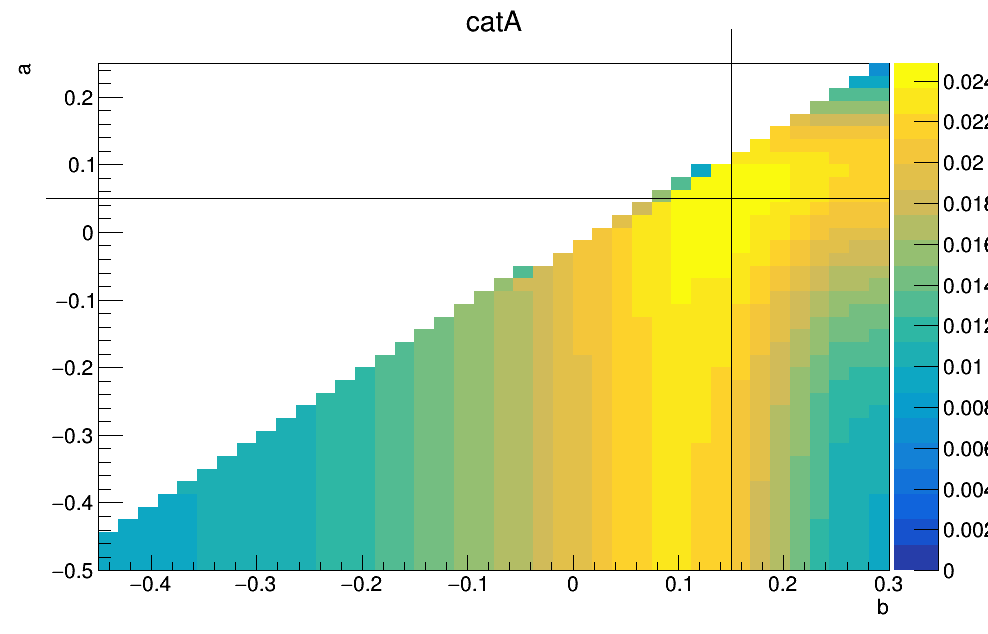
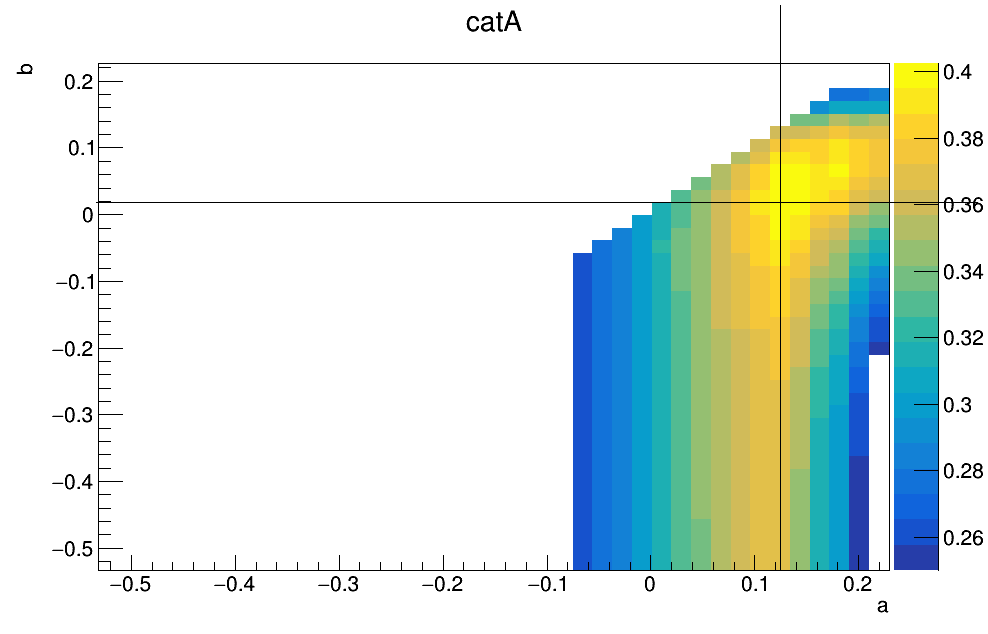
Update on macro for BDT cut definition: - high granularity BDT score histogram (see definition here: https://github.com/root-project/root/blob/f1e98c0918bd9b06527358b48b40ccdd5c6eda9a/tmva/tmva/src/MethodBase.cxx#L1188) - more robust definition of ranges - the sensitivity is not computed in the tail
Note: not final normalization factor for signal
Note: the user can increase the number of (a,b) points for combined sensitivity calculation changing variable N

	modified:   BDT_optimal_cut.C

diff --git a/BDT_optimal_cut/BDT_optimal_cut.C b/BDT_optimal_cut/BDT_optimal_cut.C
@@ -1,5 +1,6 @@
 #include "TH1F.h"
 #include <cmath>
+#include <fstream>
 
 double TH1_integral (TH1F *h, float xmin, float xmax){
     TAxis *axis = h->GetXaxis();
@@ -13,13 +14,17 @@ double TH1_integral (TH1F *h, float xmin, float xmax){
 }
 void BDT_optimal_cut() 
 {
+
+    ofstream logfile;
+    logfile.open ("logBDT.txt");
+
     //pull path of root files generated by TMVA
     TString file_name[3] = {"TMVA_file_A.root",
                             "TMVA_file_B.root",
                             "TMVA_file_C.root"};
-    TString cat_name[3] = {"catA",
-                           "catB",
-                           "catC"};
+    TString cat_name[3] = {"A",
+                           "B",
+                           "C"};
     float a,b;
     double N_s_1, N_b_1;
     double N_s_2, N_b_2;
@@ -32,8 +37,11 @@ void BDT_optimal_cut()
 
 	    TH1F *h_test_signal;
 	    TH1F *h_test_bkg;
-	    h_test_signal = (TH1F*)f->Get("dataset/Method_BDT/BDT/MVA_BDT_S");
-	    h_test_bkg = (TH1F*)f->Get("dataset/Method_BDT/BDT/MVA_BDT_B");
+            //high granularity BDT scores
+	    h_test_signal = (TH1F*)f->Get("dataset/Method_BDT/BDT/MVA_BDT_S_high");
+	    h_test_bkg = (TH1F*)f->Get("dataset/Method_BDT/BDT/MVA_BDT_B_high");
+	    //h_test_signal = (TH1F*)f->Get("dataset/Method_BDT/BDT/MVA_BDT_S");
+	    //h_test_bkg = (TH1F*)f->Get("dataset/Method_BDT/BDT/MVA_BDT_B");
 
 	    //Signal is normalized to "sig_norm" factor
 	    h_test_signal->Scale(sig_norm);
@@ -41,16 +49,25 @@ void BDT_optimal_cut()
 	    h_test_signal->GetXaxis()->SetRangeUser(-0.5,0.5);
 	    h_test_signal->SetLineColor(kRed);
 
-            //Loop on both cuts in [-0.5;0.5]
+            logfile<<cat_name[k]<<endl;
+            double X_min = std::min(h_test_signal->GetXaxis()->GetXmin(), h_test_signal->GetXaxis()->GetXmin());
+            double X_max = std::max(h_test_signal->GetXaxis()->GetXmax(), h_test_signal->GetXaxis()->GetXmax());
+            //Loop on both cuts in [X_min;X_max]
 	    Int_t dim = 0;
-	    for(int i=0; i<21; i++){
-		a = -0.5 + i * 0.05;
-		for(int j=0; j<21; j++){
-		    b = -0.5 + j * 0.05;
+            //Increase N to increase (a,b) scan granularity!
+            Int_t N = 350; double step = (X_max - X_min)/N;
+	    for(int i=0; i<N; i++){
+		a = X_min + i * step;
+		for(int j=0; j<N; j++){
+		    b = X_min + j * step;
                     if(a<b) continue;
-                    //computing areas in range [a;0.5] and [b;a]
-		    N_s_1 = TH1_integral(h_test_signal,a,0.5);
-		    N_b_1 = TH1_integral(h_test_bkg,a,0.5);
+                    //computing areas in range [a;X_max]
+		    N_s_1 = TH1_integral(h_test_signal,a,X_max);
+		    N_b_1 = TH1_integral(h_test_bkg,a,X_max);
+                    //skip iteration if integral in the tails is < 0.05% of total (sensitive to fluctuations!)
+                    if(N_s_1 < TH1_integral(h_test_signal,X_min,X_max)*0.0005) continue;
+                    if(N_b_1 < TH1_integral(h_test_bkg,X_min,X_max)*0.0005) continue;
+                    //computing areas in range [b;a]
 		    N_s_2 = TH1_integral(h_test_signal,b,a);
                     N_b_2 = TH1_integral(h_test_bkg,b,a);
 	 	    if ( (N_b_1)>0 && (N_b_2)>0 ) {
@@ -64,32 +81,38 @@ void BDT_optimal_cut()
 		        b_list.push_back(b);
 		        S_list.push_back(S);
 	   	        dim++;
+                        logfile<<"a "<<a<<" b "<<b<<" S "<<S<<endl;
 		    }
 		}
 	    }
-	    
 	    TCanvas *c3 = new TCanvas("c3","c3",150,10,990,660);
 	    TGraph2D *g2d = new TGraph2D(dim, &a_list[0], &b_list[0], &S_list[0]);
-	    g2d->SetTitle(cat_name[k]+";b;a");
+	    g2d->SetTitle(cat_name[k]+";a;b");
 	    g2d->Draw("colz");    
+            g2d->GetHistogram()->SetMinimum(0.25);
+            c3->Update();
 
             //Taking absolute maximum of the combined significance
 	    double S_max = *max_element(S_list.begin(), S_list.end());
 	    int S_maxIndex = std::max_element(S_list.begin(),S_list.end()) - S_list.begin();
-	    cout<<"b corresponding to maximum "<<b_list.at(S_maxIndex)<<endl;
-	    cout<<"a corresponding to maximum "<<a_list.at(S_maxIndex)<<endl;
-	    cout<<"S value: "<<S_max<<endl;
 	    float a_max = a_list.at(S_maxIndex);
 	    float b_max = b_list.at(S_maxIndex);
+	    cout<<"Category "<<cat_name[k]<<endl;
+	    cout<<"b cut: "<<b_max<<" a cut: "<<a_max<<endl;
+	    cout<<"S value: "<<S_max<<endl;
 
             //Computing cut efficiency on signal
-            Double_t N_S_12 = TH1_integral(h_test_signal,b_max,0.5);
-            Double_t N_S_tot = TH1_integral(h_test_signal,-0.5,0.5);
-            cout<<"Signal events selected by BDT "<<N_S_12<<" over "<<N_S_tot<<" ratio: "<<N_S_12/N_S_tot<<endl;
+            Double_t N_S_12 = TH1_integral(h_test_signal,b_max,X_max);
+            Double_t N_S_tot = TH1_integral(h_test_signal,X_min,X_max);
+            cout<<"Signal events kept by BDT "<<N_S_12<<" over "<<N_S_tot<<" ratio: "<<N_S_12/N_S_tot<<endl;
+            //Computing cut efficiency on backgroup
+            Double_t N_B_12 = TH1_integral(h_test_bkg,b_max,X_max);
+            Double_t N_B_tot = TH1_integral(h_test_bkg,X_min,X_max);
+            cout<<"Background events kept by BDT "<<N_B_12<<" over "<<N_B_tot<<" ratio: "<<N_B_12/N_B_tot<<endl;
 	    
             TLine l;
-            l.DrawLine(a_max,-0.5,a_max,0.3);
-            l.DrawLine(-0.5,b_max,0.3,b_max);
+            l.DrawLine(a_max,X_min,a_max,X_max);
+            l.DrawLine(X_min,b_max,X_max,b_max);
 
 	    c3->Update();
 	    c3->SaveAs("BDT_2Dmap_"+cat_name[k]+".png");
@@ -115,7 +138,7 @@ void BDT_optimal_cut()
 	    TH1F *h_test_bkg2;
 	    h_test_signal2 = (TH1F*)f2->Get("dataset/Method_BDT/BDT/MVA_BDT_S");
 	    h_test_bkg2 = (TH1F*)f2->Get("dataset/Method_BDT/BDT/MVA_BDT_B");
-	    h_test_signal2->GetXaxis()->SetRangeUser(-0.5,0.5);
+	    h_test_signal2->GetXaxis()->SetRangeUser(X_min,X_max);
 	    h_test_signal2->SetLineColor(kRed);
 	    h_test_signal2->Scale(1/h_test_signal2->GetEntries());
 	    h_test_bkg2->Scale(1/h_test_bkg2->GetEntries());
@@ -124,6 +147,10 @@ void BDT_optimal_cut()
 	    c2->Update();
             l.DrawLine(a_max,0,a_max,0.1);
             l.DrawLine(b_max,0,b_max,0.1);
+            TLatex ta(a_max,0,"a");
+            ta.Draw();
+            TLatex tb(b_max,0,"b");
+            tb.Draw();
 
 	    TLegend*leg2 = new TLegend(0.1,0.7,0.48,0.9);
 	    leg2->AddEntry(h_test_signal2,cat_name[k]+"_signal","f");
@@ -138,4 +165,5 @@ void BDT_optimal_cut()
 	    a_list.clear();
 	    b_list.clear();
      }
+logfile.close();
 }
